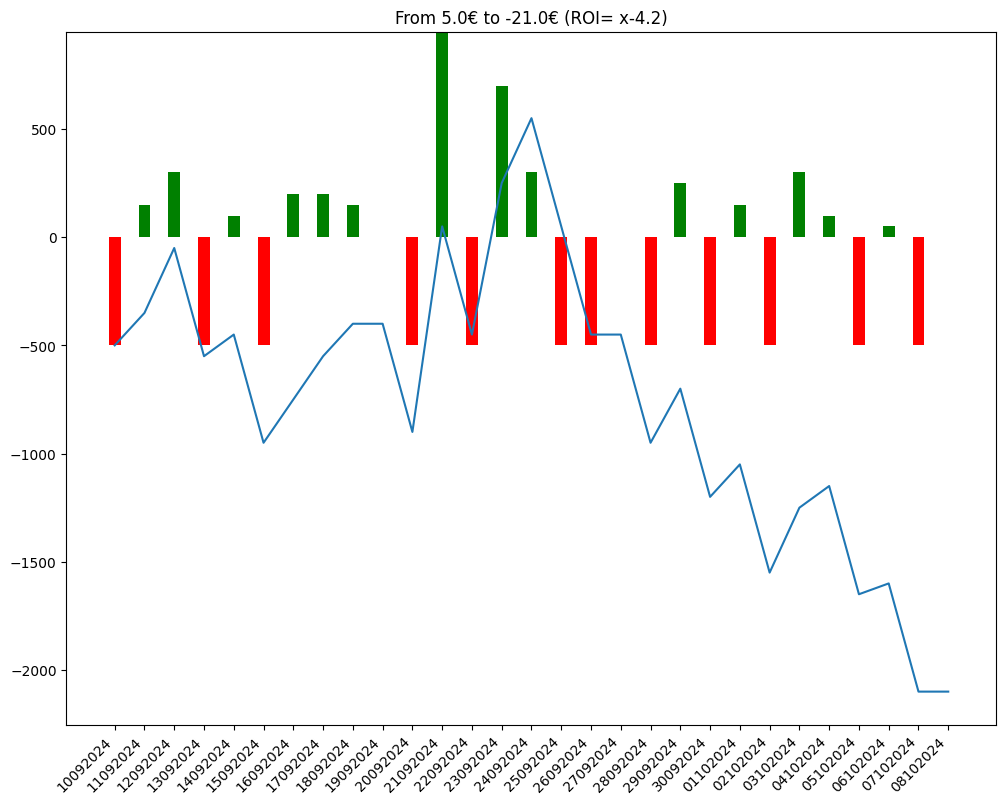
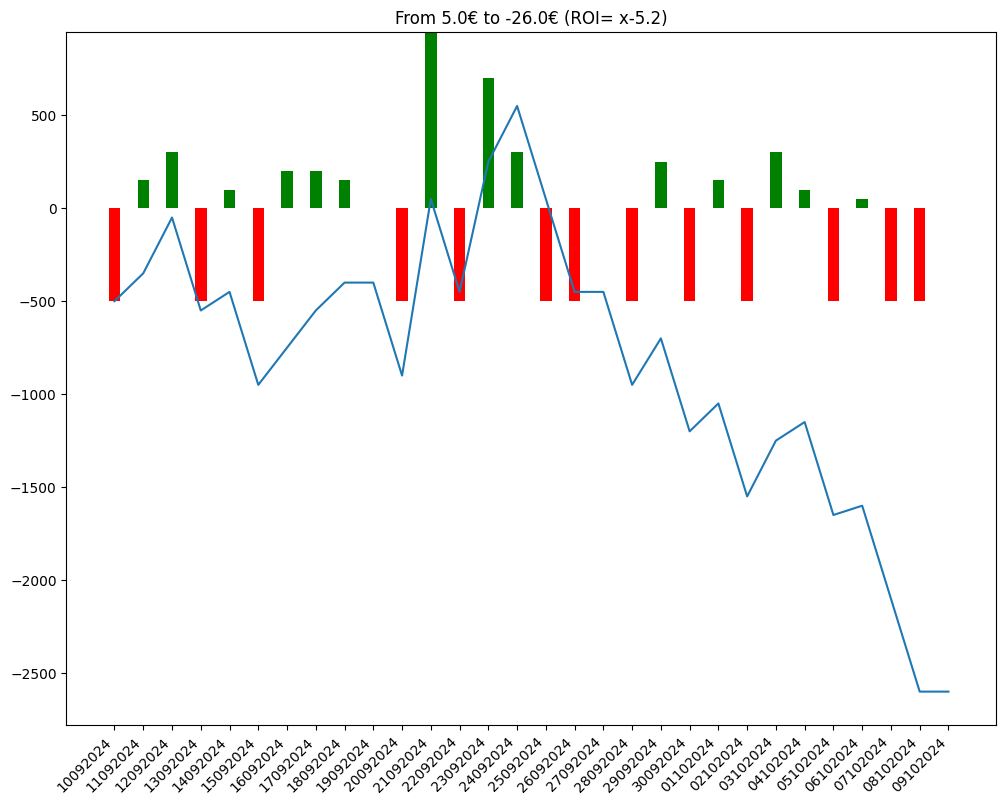
comment from python script

diff --git a/bethistory.html b/bethistory.html
@@ -86,7 +86,8 @@
             En observant la courbe 🤔, on peut avoir une idée visuelle de l'évolution des gains et ainsi évaluer le model utilisé 🧑🏫.
         </p>
         
-        <img src = "/candle.png" alt="candle chart"/><table><tr><td>Chevaux joués</td><td>Gains</td><td>URL Circuits</td></tr><tr><td>3 - PARTICULIERE DREAM</td><td>0</td><td><a href=https://www.pmu.fr/turf/08102024/r5/c3 target="_blank">https://www.pmu.fr/turf/08102024/r5/c3</a></td></tr>
+        <img src = "/candle.png" alt="candle chart"/><table><tr><td>Chevaux joués</td><td>Gains</td><td>URL Circuits</td></tr><tr><td>7 - MISS SUPERNOVA</td><td>0</td><td><a href=https://www.pmu.fr/turf/09102024/r3/c2 target="_blank">https://www.pmu.fr/turf/09102024/r3/c2</a></td></tr>
+<tr><td>3 - PARTICULIERE DREAM</td><td>-500</td><td><a href=https://www.pmu.fr/turf/08102024/r5/c3 target="_blank">https://www.pmu.fr/turf/08102024/r5/c3</a></td></tr>
 <tr><td>9 - BARBELCHEN</td><td>-500</td><td><a href=https://www.pmu.fr/turf/07102024/r4/c8 target="_blank">https://www.pmu.fr/turf/07102024/r4/c8</a></td></tr>
 <tr><td>1 - ZARIGANA</td><td>+50</td><td><a href=https://www.pmu.fr/turf/06102024/r1/c1 target="_blank">https://www.pmu.fr/turf/06102024/r1/c1</a></td></tr>
 <tr><td>7 - SAWARIM</td><td>-500</td><td><a href=https://www.pmu.fr/turf/05102024/r1/c2 target="_blank">https://www.pmu.fr/turf/05102024/r1/c2</a></td></tr>
